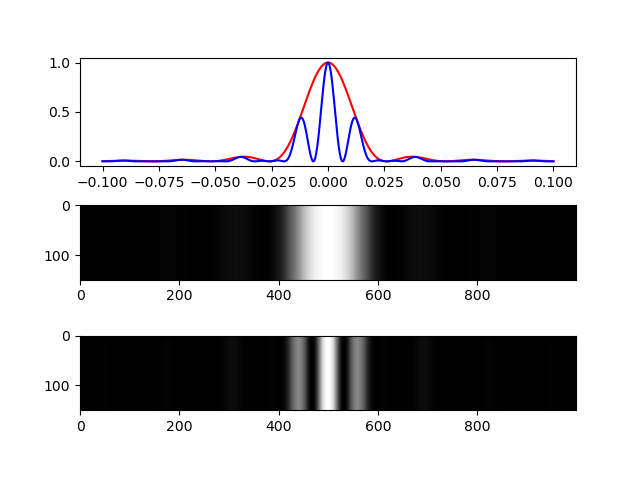
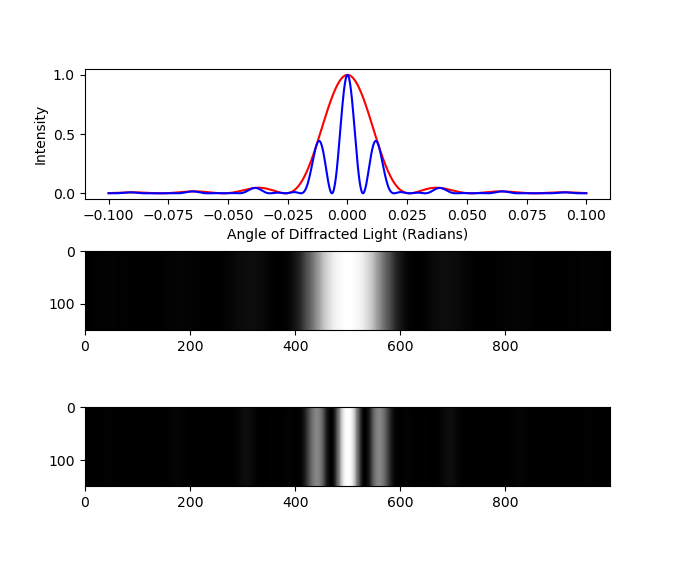
changed x-axis to distance from origin (the calculations now take L into account)

diff --git a/fraunhofer.py b/fraunhofer.py
@@ -4,7 +4,7 @@ import matplotlib.pyplot as plt
 
 b = 0.025e-3 # slit width
 S = 0.05e-3 # distance between slits
-w = 4.5e-7 # Wavelength of incident light
+w = 6.5e-7 # Wavelength of incident light
 i = 1
 L = 1.32
 
@@ -16,7 +16,8 @@ I_d = lambda theta: i * (((math.cos(alpha(theta)))**2) * ((math.sin(beta(theta))
 
 fig, axs = plt.subplots(3, 1)
 
-xs = np.linspace(-0.1,0.1,1000)
+angles = np.linspace(-0.1, 0.1, 1000) # Angles (in radians)
+xs = [L*math.atan(x) for x in angles] # Displacement of rays on screen from origin - takes the Length between the slit and screen into account
 h = 150 # height of diffraction pattern output image
 single_slit = np.array([I_s(x) for x in xs])
 double_slit = np.array([I_d(x) for x in xs])
@@ -27,6 +28,8 @@ d_pattern = np.concatenate(h*(np.expand_dims(np.array([I_d(x) for x in xs]), 0),
 
 axs[0].plot(xs, single_slit, color = 'red', label = f'Intensity')
 axs[0].plot(xs, double_slit, color = 'blue', label = f'Intensity')
+plt.setp(axs[0], ylabel='Intensity')
+plt.setp(axs[0], xlabel='Displacement from Origin')
 axs[1].imshow(s_pattern, cmap=plt.cm.get_cmap('Greys').reversed() , label='Single Slit')
 axs[2].imshow(d_pattern, cmap=plt.cm.get_cmap('Greys').reversed(), label='Double Slit')
 plt.show()
